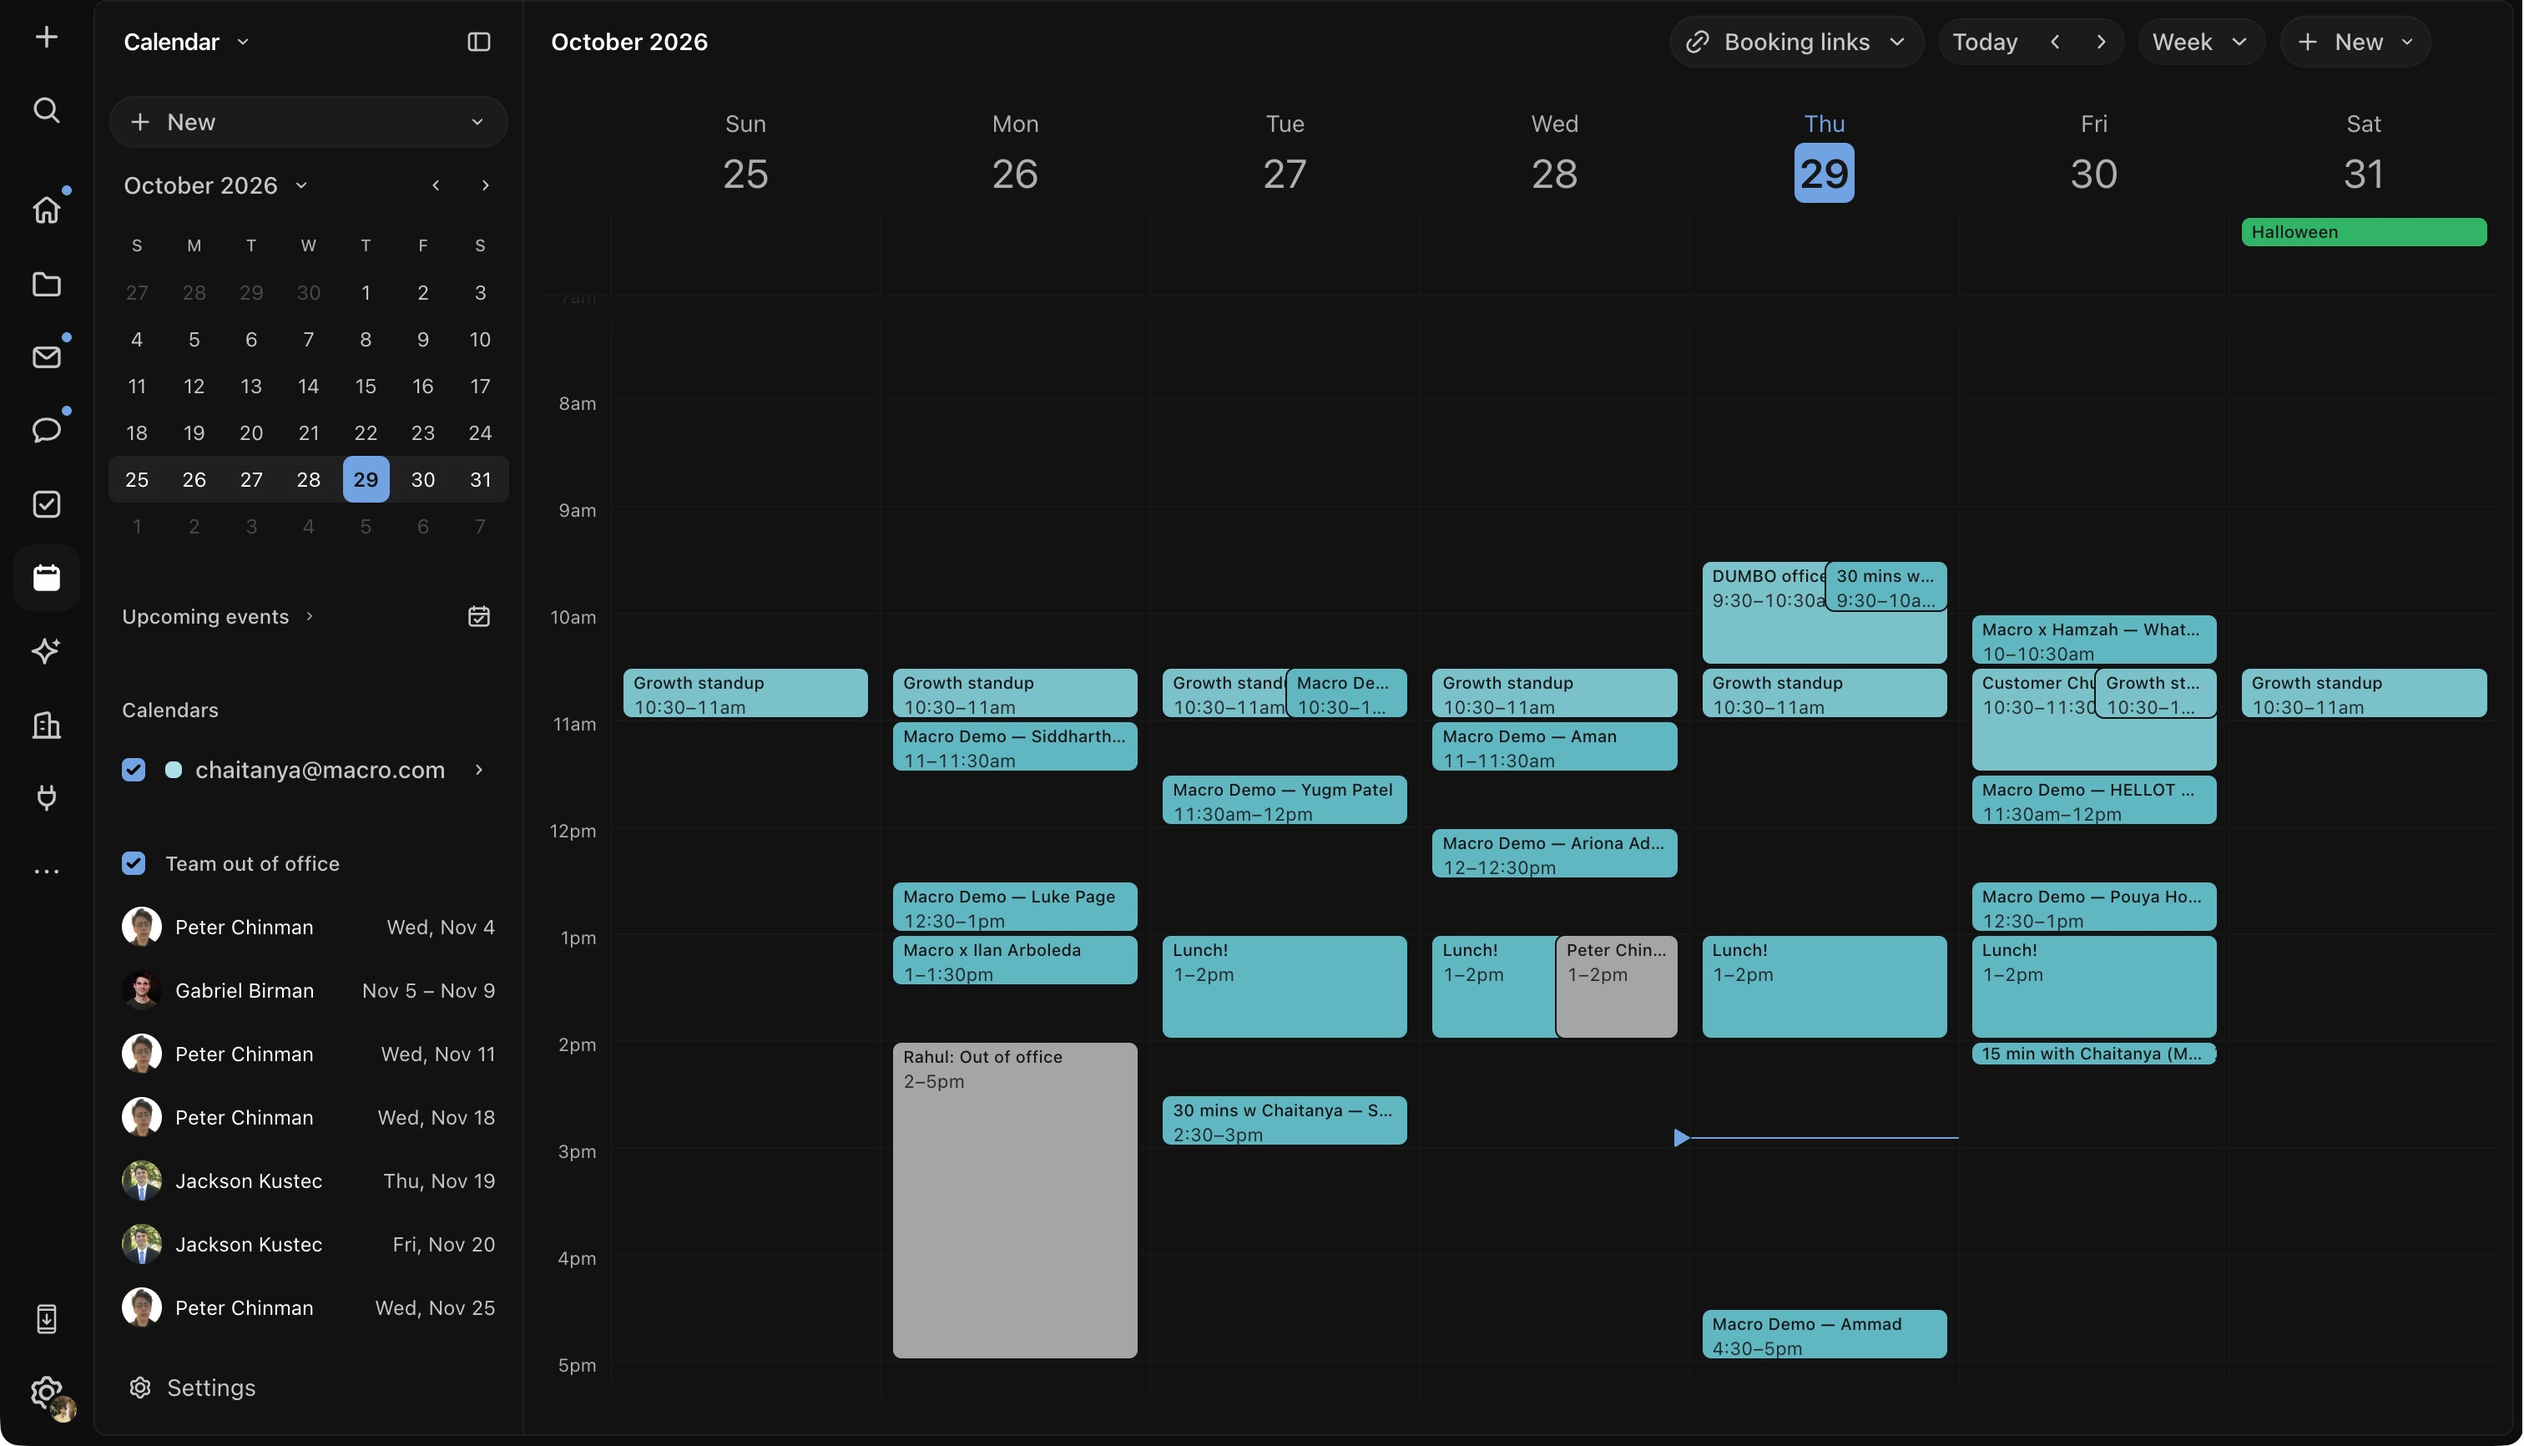
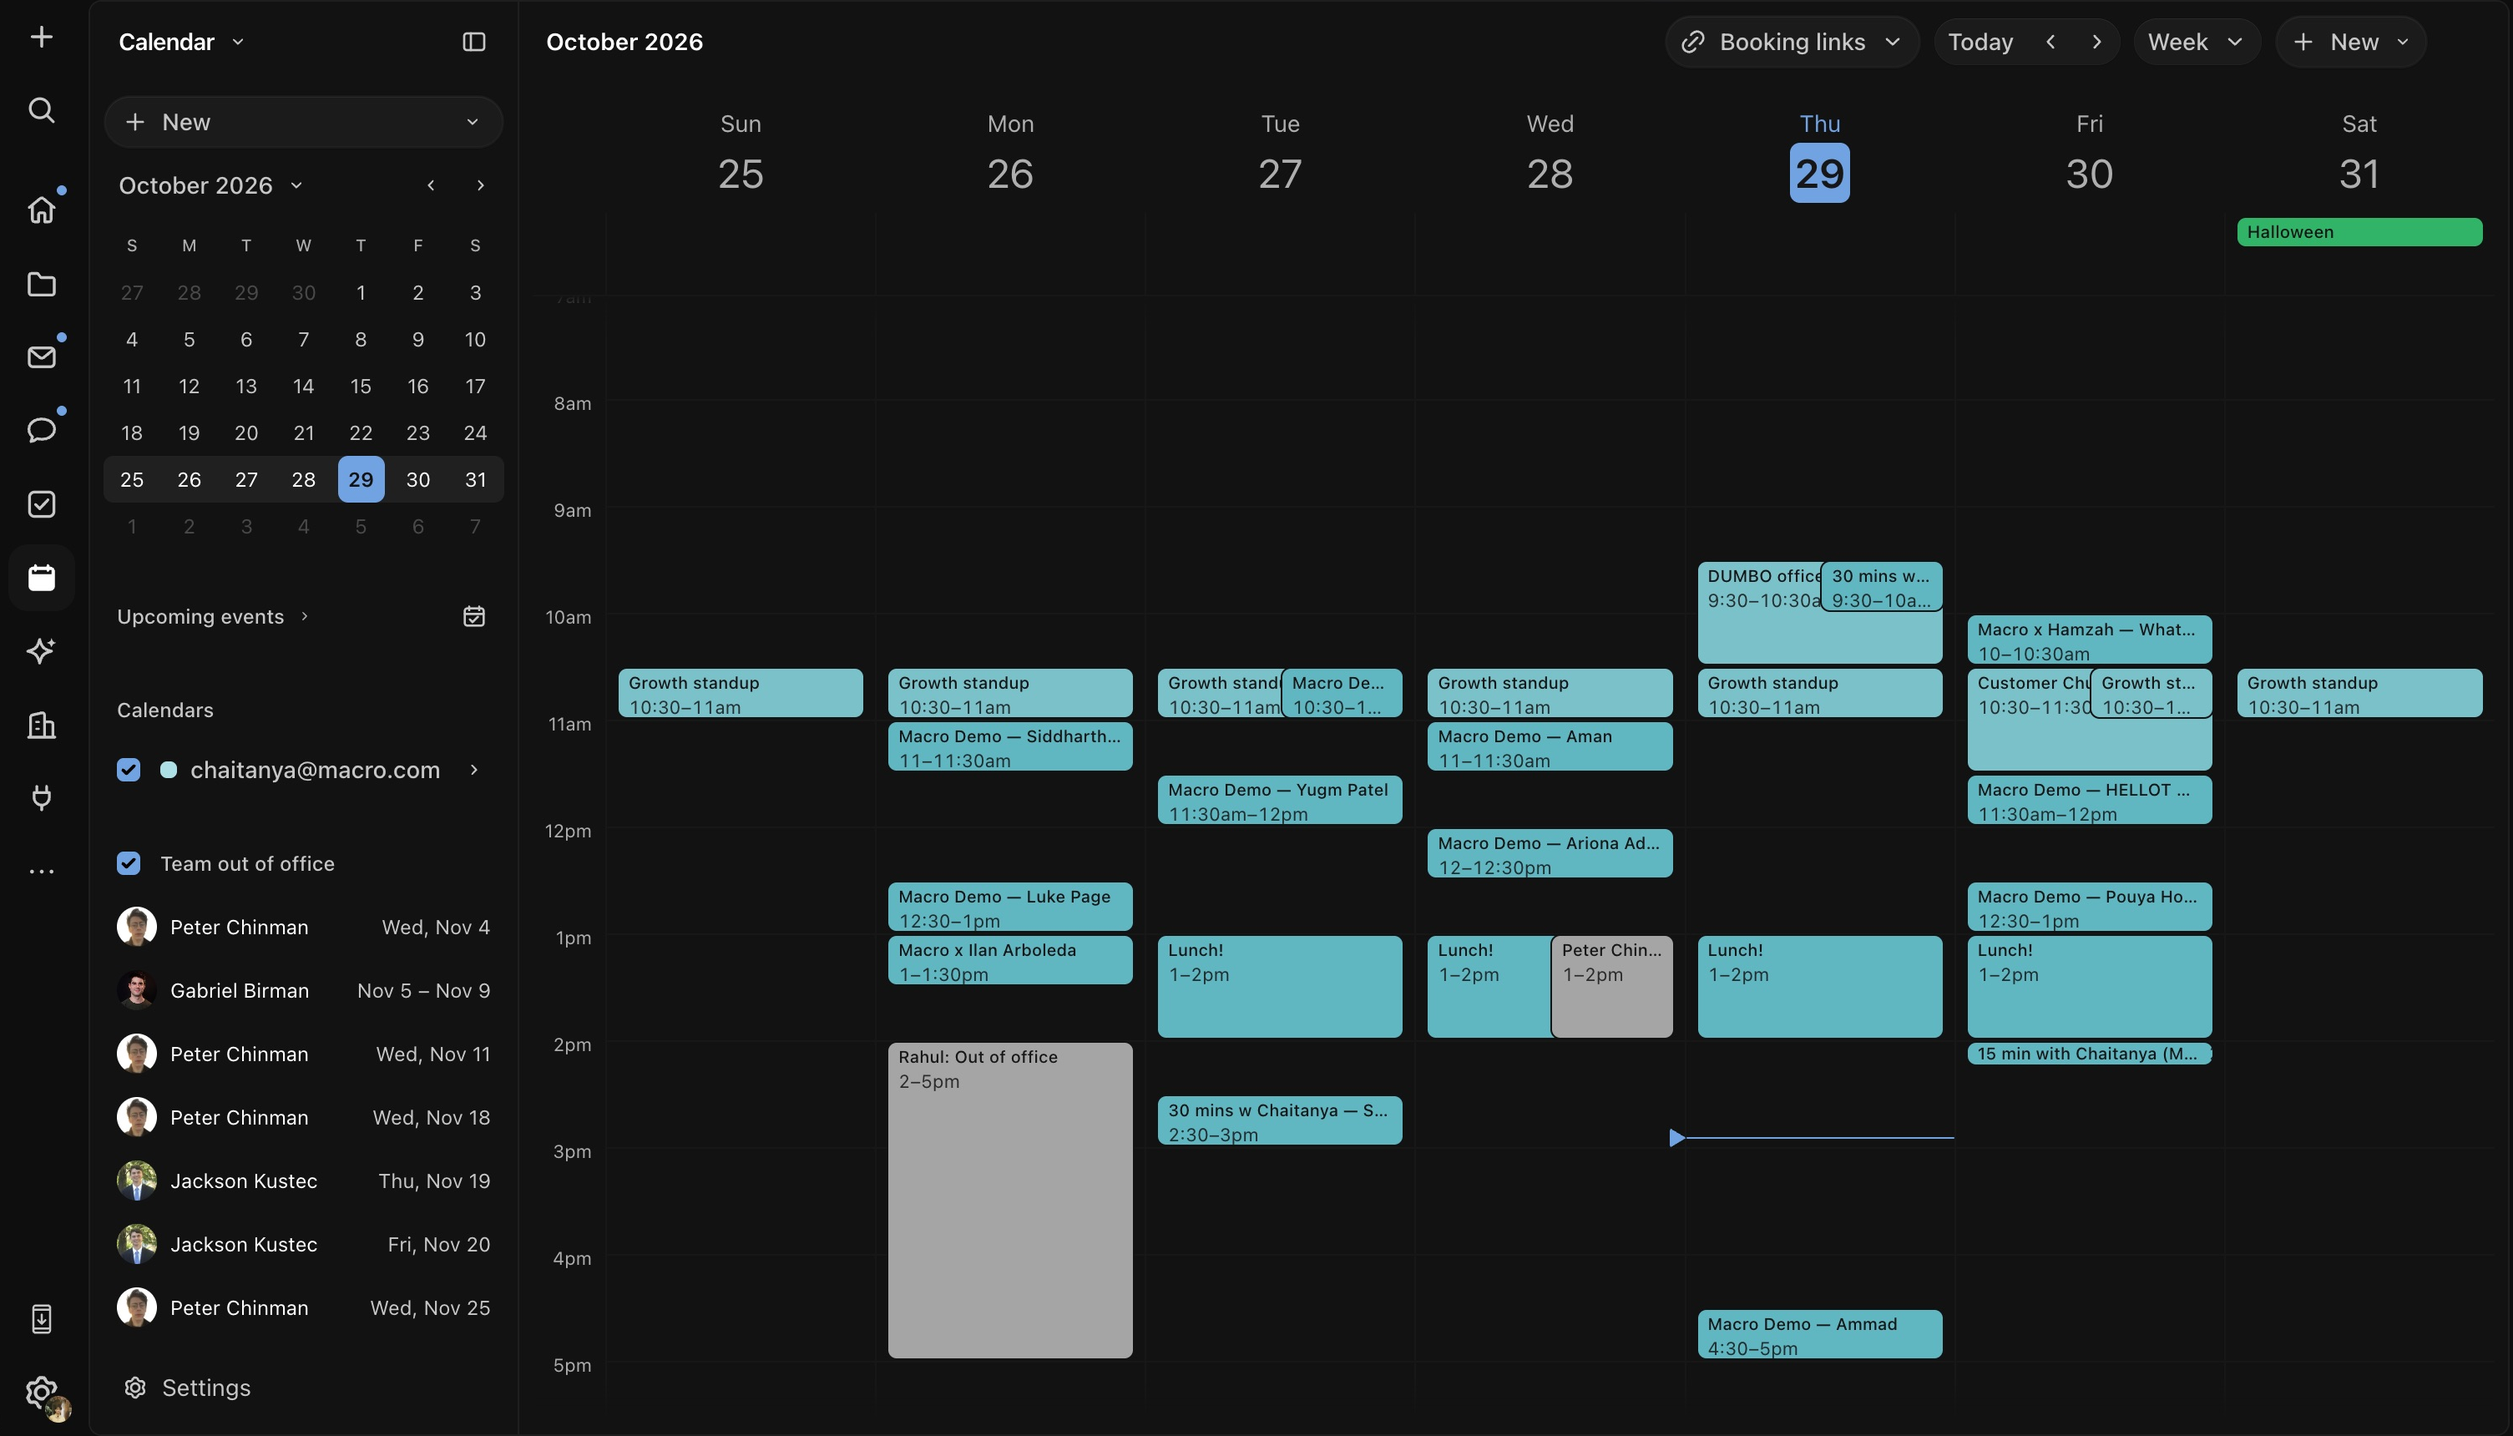
docs(readme): trim screenshot borders

diff --git a/.github/readme/README.md b/.github/readme/README.md
@@ -8,8 +8,11 @@ use new high-resolution web captures; Calendar uses a desktop capture. The
 Databases example and CRM pipeline contain fictional sample data. The Calendar
 capture was explicitly selected with its real meeting names visible.
 
-The new PNGs preserve the gallery's selected crops without another lossy encode.
-They omit browser chrome, the system sharing indicator, and the pointer. Keep
+The new PNGs use the gallery selections with an additional edge crop: 6 pixels
+from the left, 8 from the right, and 12 from the bottom. This removes the white
+right-hand strip and rounded-window corner remnants without resizing the UI.
+The original gallery files remain unchanged. These lossless PNG crops omit
+browser chrome, the system sharing indicator, and the pointer. Keep
 text readable at GitHub's README width rather than fitting an entire desktop
 into every image. The existing CRM crop shows three complete populated stages.
 
